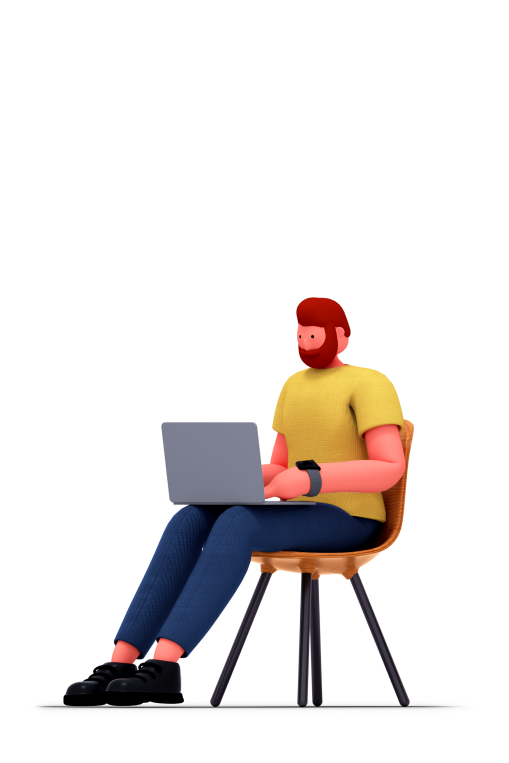
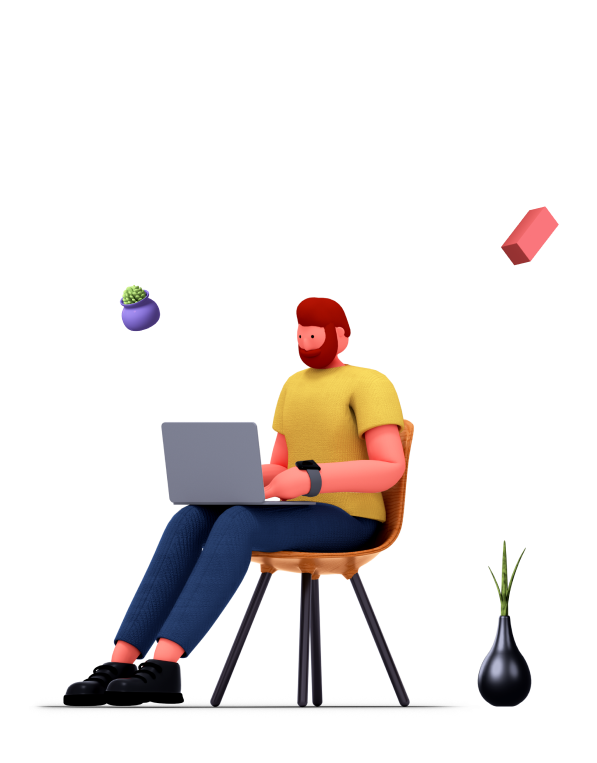
css continuado

Changed region(s): [[0.0884, 0.3919, 0.9136, 0.9345], [0.8251, 0.2713, 0.943, 0.3617], [0.2063, 0.3617, 0.2652, 0.4522]]

diff --git a/index.html b/index.html
@@ -35,29 +35,32 @@
             <button class="view">View more</button>
             </div>
             <div class="img">
-                <img src="IMG/succlent.png" alt="succlent">
-                <img src="IMG/cuboid.png" alt="cuboid">
-                <img src="IMG/laptop.png" alt="laptop">
-                <img src="IMG/bigplant.png" alt="bigplant">    
+                <img src="IMG/laptop.png" alt="laptop">   
             </div>
         </section>
         <section class="icones">
-            <div>
+            <div class="icone1">
                 <img src="IMG/website-icon.png" alt="website-icon">
                 <div>
                     <h4>Web Application</h4>
                     <p>Lorem Ipsum is simply</p>
                 </div>
+            </div>
+            <div class="icone2">
                 <img src="IMG/seo-icon.png" alt="seo-icon">
                 <div>
                     <h4>SEO</h4>
                     <p>Lorem Ipsum is simply</p>
                 </div>
+            </div>
+            <div class="icone3">
                 <img src="IMG/vr-icon.png" alt="vr-icon">
                 <div>
                     <h4>AR/VR Solutions</h4>
                     <p>Lorem Ipsum is simply</p>
                 </div>
+            </div>
+            <div class="icone4">
                 <img src="IMG/mobile-icon.png" alt="website-icon">
                 <div>
                     <h4>Mobile Applications</h4>

diff --git a/CSS/style.css b/CSS/style.css
@@ -49,7 +49,67 @@ section.experienced {
     color: #5C5C5C;
     margin: 0 0 2vw 0;
 }
+.experienced div.text button {
+    font-size: x-large;
+    border-radius: 10px;
+    padding: 10px 40px 10px 40px;
+}
 .experienced div.text button.contact{
     background-color: #1090CB;
+    color: white;
+    border-color: #1090CB;
 }
-
+.experienced div.text button.view{
+   color: #1090CB;
+   border-color: #1090CB;
+   margin: 0 0 0 1vw;
+}
+.icones {
+    display: flex;
+    margin: 3vw 7vw 3vw 16vw;
+    font-size: large;
+}
+.icones .icone1{
+    display: flex;
+    padding: 1vw;
+}
+.icone1 img{
+    background-color: #EFEAFF;
+    border-radius: 10px;
+    padding: 15px;
+}
+.icones .icone2 {
+    display: flex;
+    padding: 1vw;
+}
+.icone2 img{
+    background-color: #ECFFDA;
+    border-radius: 10px;
+    padding: 15px;
+}
+.icones .icone3 {
+    display: flex;
+    padding: 1vw;
+}
+.icone3 img{
+    background-color: #DAE6FF;
+    border-radius: 10px;
+    padding: 15px;
+}
+.icones .icone4 {
+    display: flex;
+    padding: 1vw;
+}
+.icone4 img{
+    background-color: #FFE5DA;
+    border-radius: 10px;
+    padding: 15px;
+}
+.icones h4{
+    font-weight: bold;
+    padding: 15px;
+}
+.icones p {
+    color: #5C5C5C;
+    padding: 1px 1px 15px 15px;
+}
